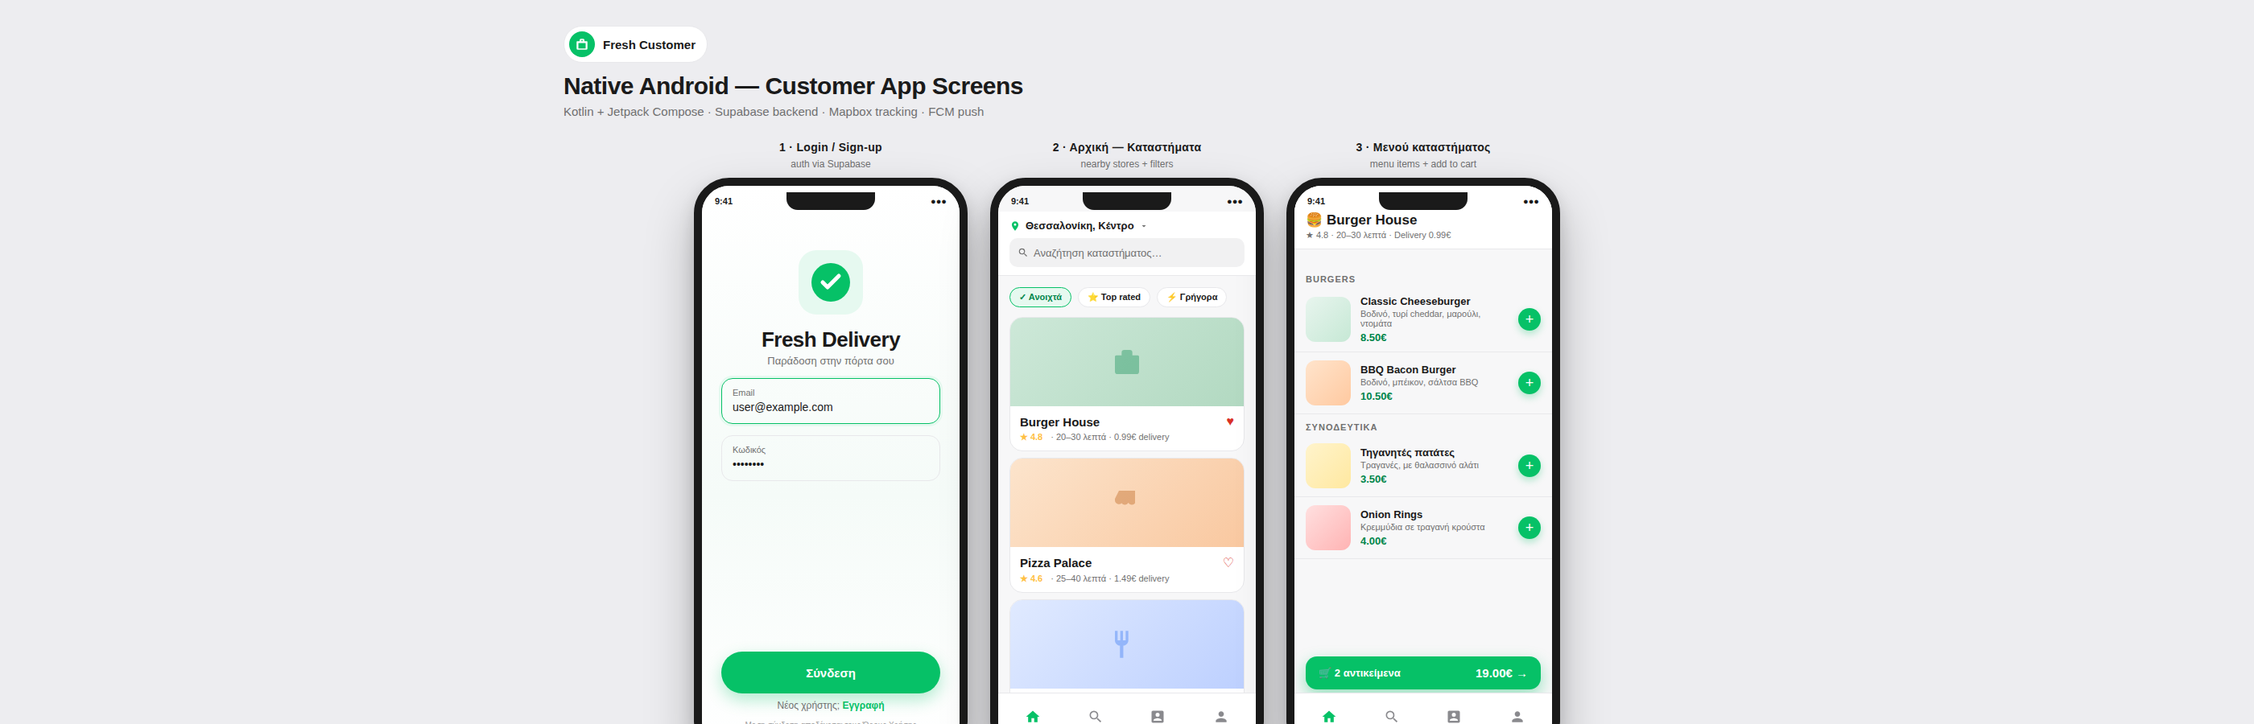
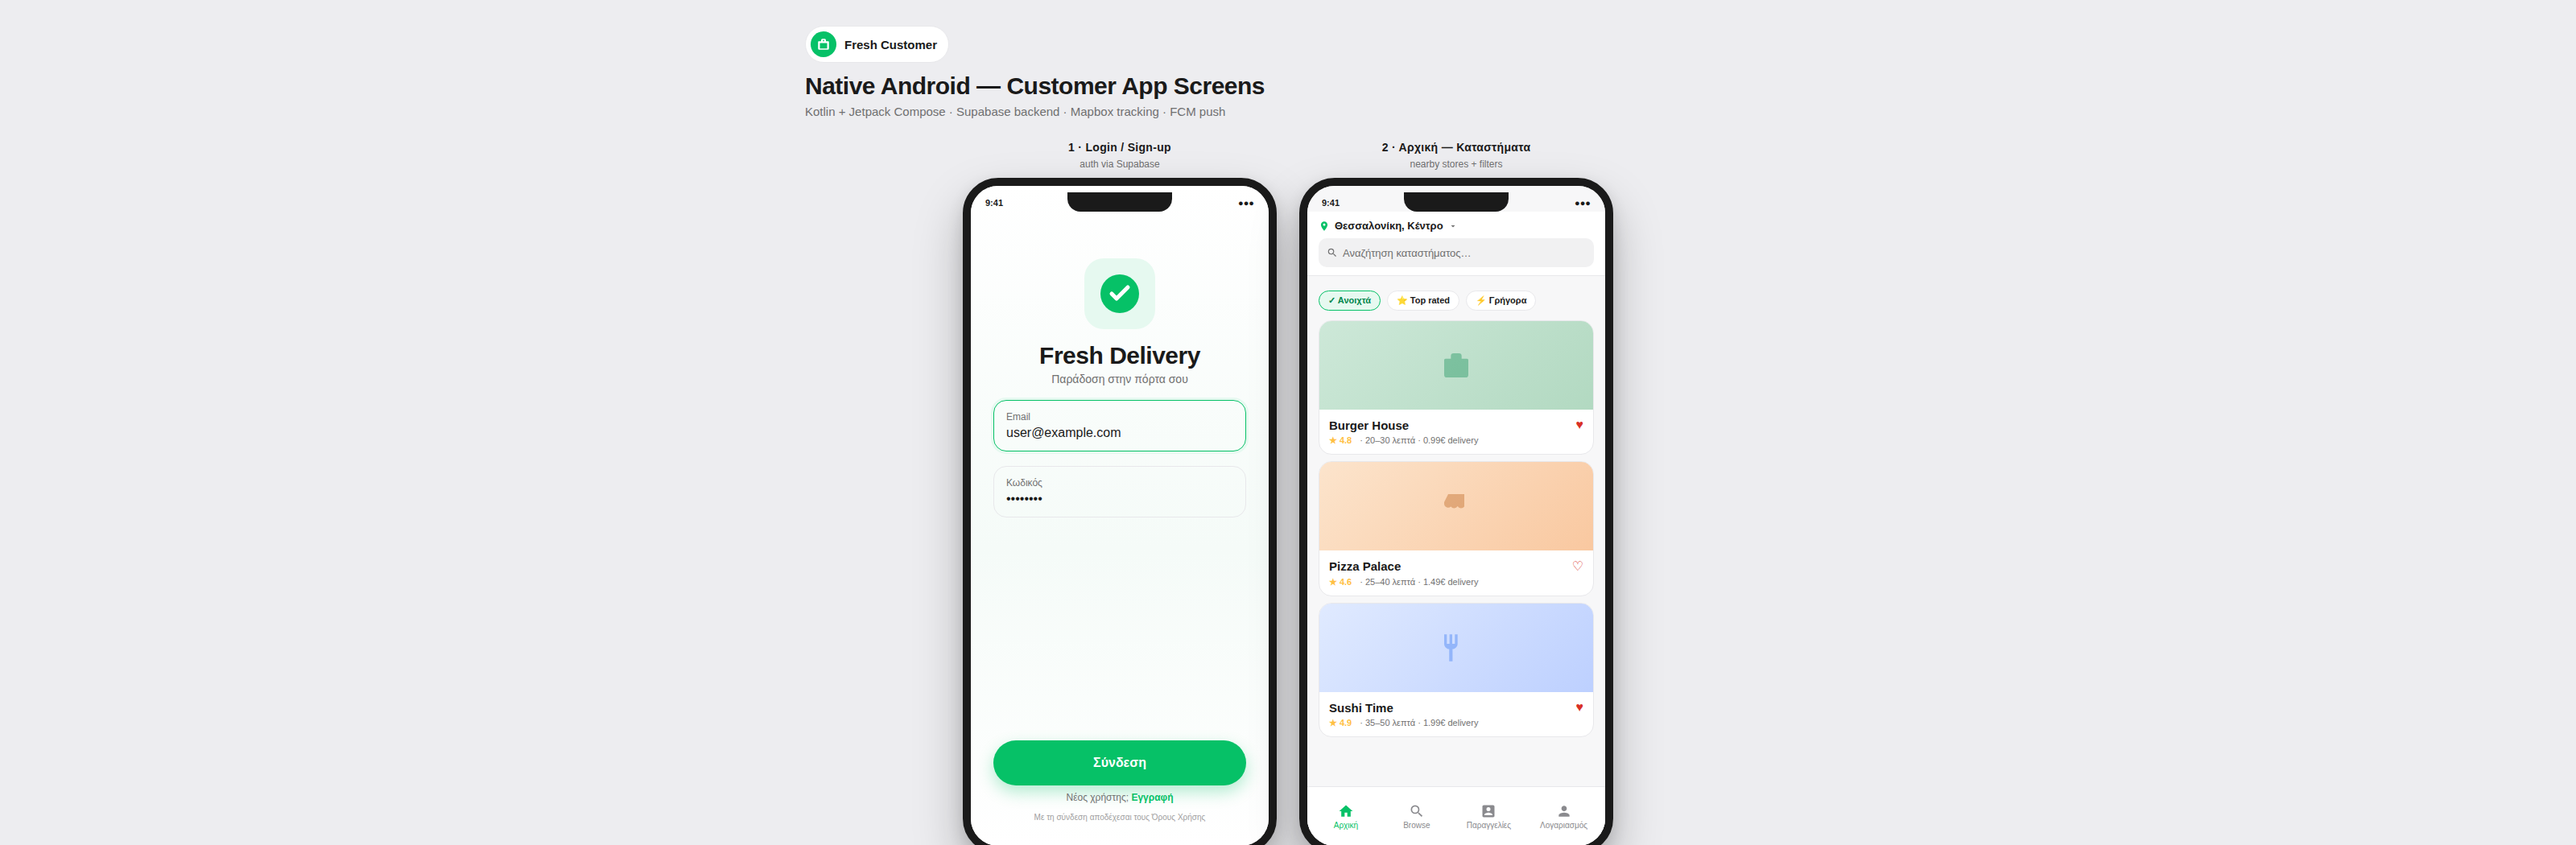
fix: align customer preview to match driver preview (390×840 phone, matching fonts/spacing)

Changed region(s): [[0.2486, 0.0311, 0.7146, 1.0], [0.3107, 0.0311, 0.3729, 0.0622]]

diff --git a/native-customer/redesign-preview.html b/native-customer/redesign-preview.html
@@ -28,7 +28,7 @@
     color: var(--black);
     padding: 32px 20px 64px;
   }
-  .hero { max-width: 1400px; margin: 0 auto 28px; }
+  .hero { max-width: 1200px; margin: 0 auto 28px; }
   .hero h1 { font-size: 30px; font-weight: 800; letter-spacing: -.5px; }
   .hero p { color: var(--muted); margin-top: 6px; font-size: 15px; max-width: 700px; }
   .hero .brand {
@@ -39,62 +39,62 @@
   .brand-dot { width: 32px; height: 32px; border-radius: 50%; background: var(--green); display: flex; align-items: center; justify-content: center; }
   .screens {
     display: flex; flex-wrap: wrap; gap: 28px; justify-content: center;
-    max-width: 1400px; margin: 0 auto;
+    max-width: 1200px; margin: 0 auto;
   }
   .screen-col { display: flex; flex-direction: column; gap: 10px; align-items: center; }
   .screen-col h3 { font-size: 14px; font-weight: 700; color: var(--black); letter-spacing: .3px; }
   .screen-col .cap { font-size: 12px; color: var(--muted); margin-top: -4px; }
   .phone {
-    width: 340px; height: 720px; background: var(--surface); border-radius: 44px;
+    width: 390px; height: 840px; background: var(--surface); border-radius: 44px;
     border: 10px solid #1a1a1a; overflow: hidden; position: relative;
     box-shadow: 0 30px 60px rgba(0,0,0,.25), 0 8px 20px rgba(0,0,0,.12);
   }
   .notch {
     position: absolute; top: 8px; left: 50%; transform: translateX(-50%);
-    width: 110px; height: 22px; background: #1a1a1a; border-radius: 0 0 14px 14px; z-index: 50;
+    width: 130px; height: 24px; background: #1a1a1a; border-radius: 0 0 16px 16px; z-index: 50;
   }
   .screen { position: absolute; inset: 0; overflow: hidden; background: var(--bg); }
 
   /* ---- STATUSBAR ---- */
   .statusbar {
-    position: absolute; top: 0; left: 0; right: 0; height: 32px; z-index: 40;
+    position: absolute; top: 0; left: 0; right: 0; height: 34px; z-index: 40;
     display: flex; justify-content: space-between; align-items: center;
-    padding: 6px 16px 0; font-size: 11px; font-weight: 600; color: var(--black);
+    padding: 8px 18px 0; font-size: 11px; font-weight: 600; color: var(--black);
   }
 
   /* ---- DOCK NAV ---- */
   .nav {
-    position: absolute; bottom: 0; left: 0; right: 0; height: 70px;
+    position: absolute; bottom: 0; left: 0; right: 0; height: 74px;
     background: var(--surface); border-top: 1px solid var(--outline);
     display: flex; align-items: center; justify-content: space-around;
     padding: 0 4px; z-index: 45;
   }
   .ntab {
     display: flex; flex-direction: column; align-items: center; gap: 2px;
-    font-size: 9px; color: #8A8A8E; min-width: 52px; padding: 6px 0;
+    font-size: 10px; color: #8A8A8E; min-width: 52px; padding: 6px 0;
   }
   .ntab.on { color: var(--green); }
   .ntab svg { width: 20px; height: 20px; }
 
   /* ---- LOGIN ---- */
   .login { background: linear-gradient(180deg, #fff 0%, #F5FBF8 55%, #fff 100%); }
-  .login .body { padding: 80px 24px 24px; display: flex; flex-direction: column; height: 100%; }
+  .login .body { padding: 90px 28px 30px; display: flex; flex-direction: column; height: 100%; }
   .logo-tile {
-    width: 80px; height: 80px; border-radius: 22px; background: var(--green-soft);
+    width: 88px; height: 88px; border-radius: 24px; background: var(--green-soft);
     display: flex; align-items: center; justify-content: center; margin: 0 auto 16px;
   }
-  .login h1 { text-align: center; font-size: 26px; font-weight: 800; letter-spacing: -.5px; }
-  .login .sub { text-align: center; color: var(--muted); font-size: 13px; margin-top: 3px; }
+  .login h1 { text-align: center; font-size: 30px; font-weight: 800; letter-spacing: -.5px; }
+  .login .sub { text-align: center; color: var(--muted); font-size: 14px; margin-top: 4px; }
   .field {
-    position: relative; margin-top: 14px; border: 1.5px solid var(--outline);
-    border-radius: 14px; padding: 11px 13px;
+    position: relative; margin-top: 18px; border: 1.5px solid var(--outline);
+    border-radius: 16px; padding: 13px 15px;
   }
-  .field label { display: block; font-size: 11px; color: var(--muted); margin-bottom: 3px; }
-  .field input { border: none; outline: none; width: 100%; font-size: 14px; font-family: inherit; color: var(--black); background: transparent; }
+  .field label { display: block; font-size: 12px; color: var(--muted); margin-bottom: 4px; }
+  .field input { border: none; outline: none; width: 100%; font-size: 16px; font-family: inherit; color: var(--black); background: transparent; }
   .field.active { border-color: var(--green); box-shadow: 0 0 0 3px var(--green-soft); }
   .btn-primary {
-    margin-top: auto; width: 100%; height: 52px; border-radius: 26px; border: none;
-    background: var(--green); color: #fff; font-size: 15px; font-weight: 800; font-family: inherit;
+    margin-top: auto; width: 100%; height: 56px; border-radius: 28px; border: none;
+    background: var(--green); color: #fff; font-size: 16px; font-weight: 800; font-family: inherit;
     cursor: pointer; box-shadow: 0 8px 20px rgba(6,193,103,.3);
   }
   .login .terms { text-align: center; font-size: 10px; color: var(--faint); margin-top: 12px; }
@@ -114,7 +114,7 @@
     display: flex; align-items: center; padding: 0 10px; gap: 6px;
     font-size: 13px; color: var(--muted);
   }
-  .store-scroll { position: absolute; top: 116px; left: 0; right: 0; bottom: 70px; overflow: hidden; }
+  .store-scroll { position: absolute; top: 120px; left: 0; right: 0; bottom: 74px; overflow: hidden; }
   .filter-row { display: flex; gap: 8px; padding: 10px 14px 4px; overflow: hidden; }
   .fchip {
     display: inline-flex; align-items: center; gap: 4px; font-size: 11px; font-weight: 700;
@@ -141,7 +141,7 @@
   }
   .store-header-name { font-size: 17px; font-weight: 800; }
   .store-header-meta { font-size: 11px; color: var(--muted); margin-top: 2px; }
-  .menu-list { position: absolute; top: 100px; left: 0; right: 0; bottom: 70px; overflow: hidden; }
+  .menu-list { position: absolute; top: 104px; left: 0; right: 0; bottom: 74px; overflow: hidden; }
   .cat-label { padding: 10px 14px 4px; font-size: 11px; font-weight: 800; letter-spacing: 1px; color: var(--muted); text-transform: uppercase; }
   .menu-item {
     display: flex; align-items: center; gap: 12px; padding: 10px 14px;
@@ -173,7 +173,7 @@
     padding: 32px 14px 10px;
   }
   .checkout-header h2 { font-size: 17px; font-weight: 800; }
-  .checkout-body { position: absolute; top: 82px; left: 0; right: 0; bottom: 70px; overflow: hidden; padding: 12px 14px; }
+  .checkout-body { position: absolute; top: 86px; left: 0; right: 0; bottom: 74px; overflow: hidden; padding: 12px 14px; }
   .cart-item-row { display: flex; align-items: center; gap: 10px; padding: 8px 0; border-bottom: 1px solid var(--outline); }
   .qty-ctrl { display: flex; align-items: center; gap: 8px; }
   .qty-btn { width: 26px; height: 26px; border-radius: 50%; background: var(--well); border: 1px solid var(--outline); font-size: 14px; display: flex; align-items: center; justify-content: center; cursor: pointer; }
@@ -185,7 +185,7 @@
   .summary-row { display: flex; justify-content: space-between; font-size: 13px; padding: 4px 0; }
   .summary-row.total { font-weight: 800; font-size: 15px; border-top: 1px solid var(--outline); margin-top: 6px; padding-top: 8px; }
   .checkout-btn {
-    position: absolute; bottom: 80px; left: 14px; right: 14px; z-index: 40;
+    position: absolute; bottom: 84px; left: 14px; right: 14px; z-index: 40;
     height: 50px; border-radius: 25px; border: none; background: var(--green);
     color: #fff; font-size: 15px; font-weight: 800; font-family: inherit; cursor: pointer;
     box-shadow: 0 8px 20px rgba(6,193,103,.3);
@@ -236,7 +236,7 @@
     padding: 32px 14px 10px;
   }
   .orders-header h2 { font-size: 17px; font-weight: 800; }
-  .orders-body { position: absolute; top: 78px; left: 0; right: 0; bottom: 70px; overflow: hidden; padding: 12px 14px; }
+  .orders-body { position: absolute; top: 82px; left: 0; right: 0; bottom: 74px; overflow: hidden; padding: 12px 14px; }
   .order-card {
     background: var(--surface); border: 1px solid var(--outline); border-radius: 14px;
     padding: 12px 14px; margin-bottom: 10px;
@@ -264,7 +264,7 @@
     padding: 32px 14px 10px;
   }
   .profile-header h2 { font-size: 17px; font-weight: 800; }
-  .profile-body { position: absolute; top: 78px; left: 0; right: 0; bottom: 70px; overflow: hidden; padding: 0; }
+  .profile-body { position: absolute; top: 82px; left: 0; right: 0; bottom: 74px; overflow: hidden; padding: 0; }
   .profile-hero { background: linear-gradient(135deg, var(--green-soft), #fff); padding: 20px 14px; display: flex; align-items: center; gap: 14px; }
   .profile-avatar { width: 60px; height: 60px; border-radius: 50%; background: var(--green); display: flex; align-items: center; justify-content: center; color: #fff; font-size: 22px; font-weight: 800; flex-shrink: 0; }
   .profile-name { font-size: 17px; font-weight: 800; }
